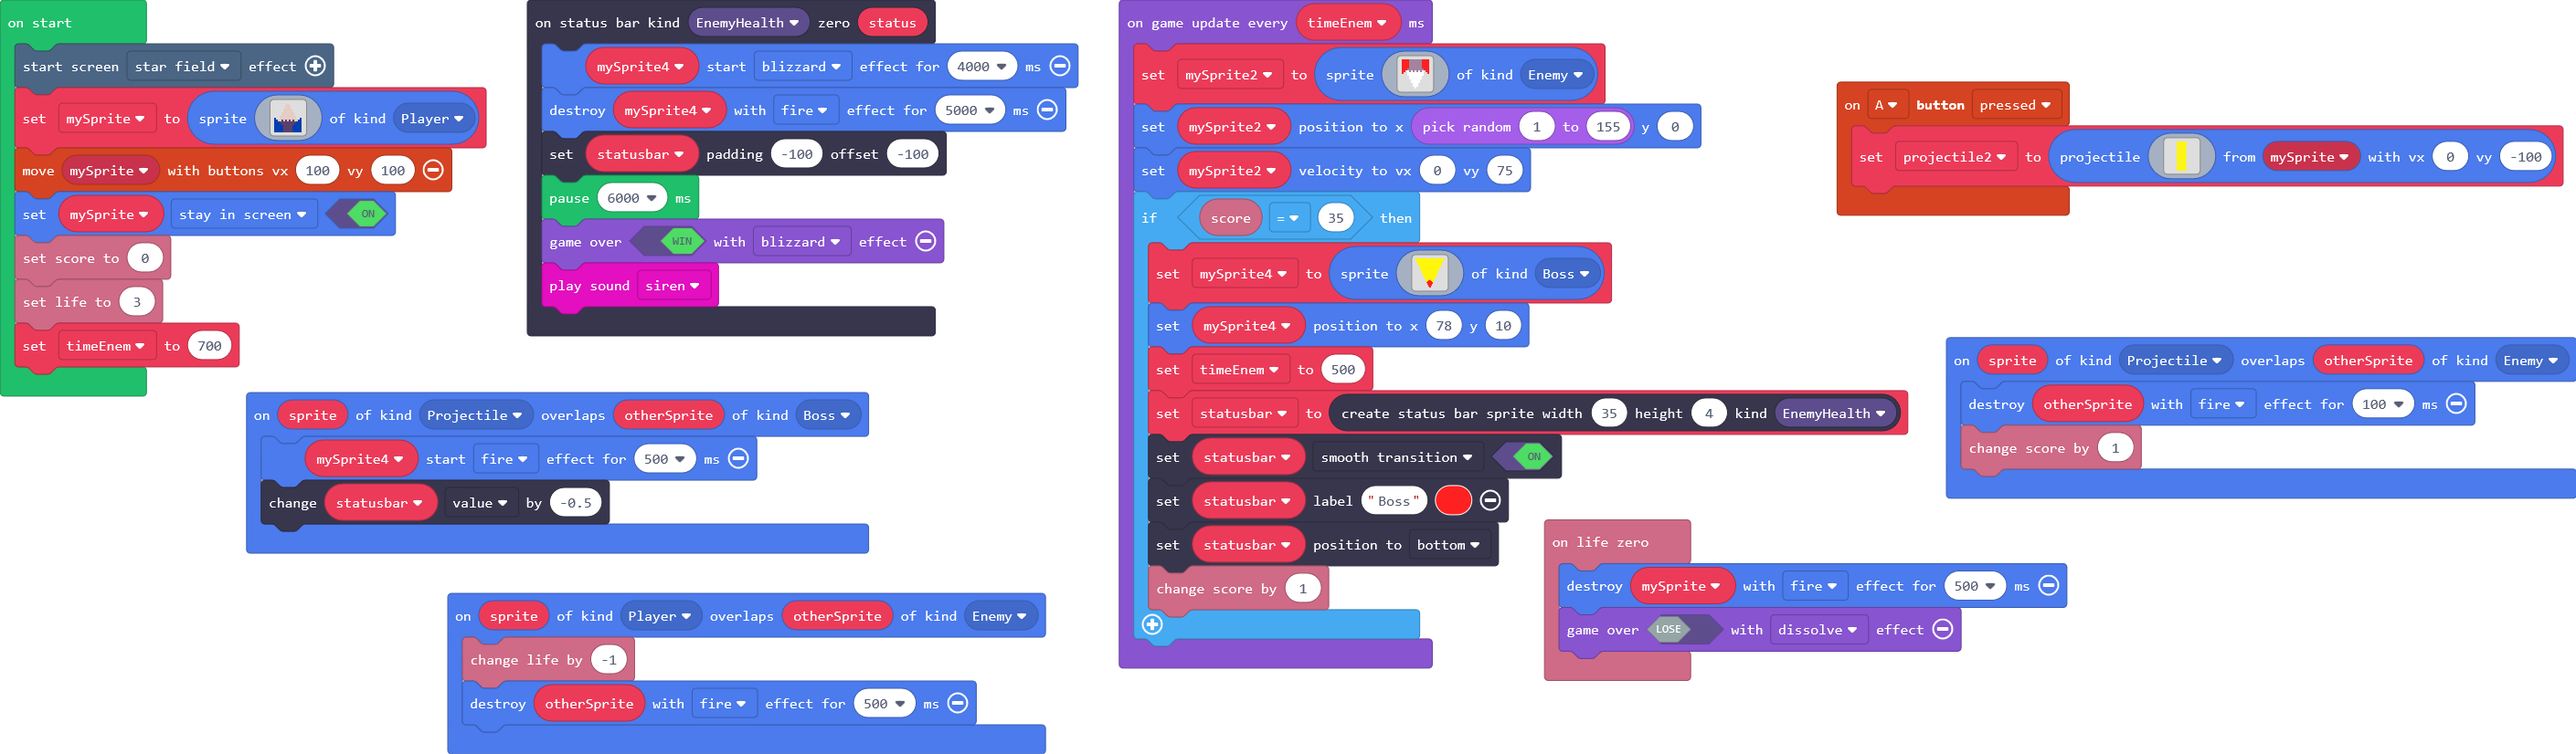
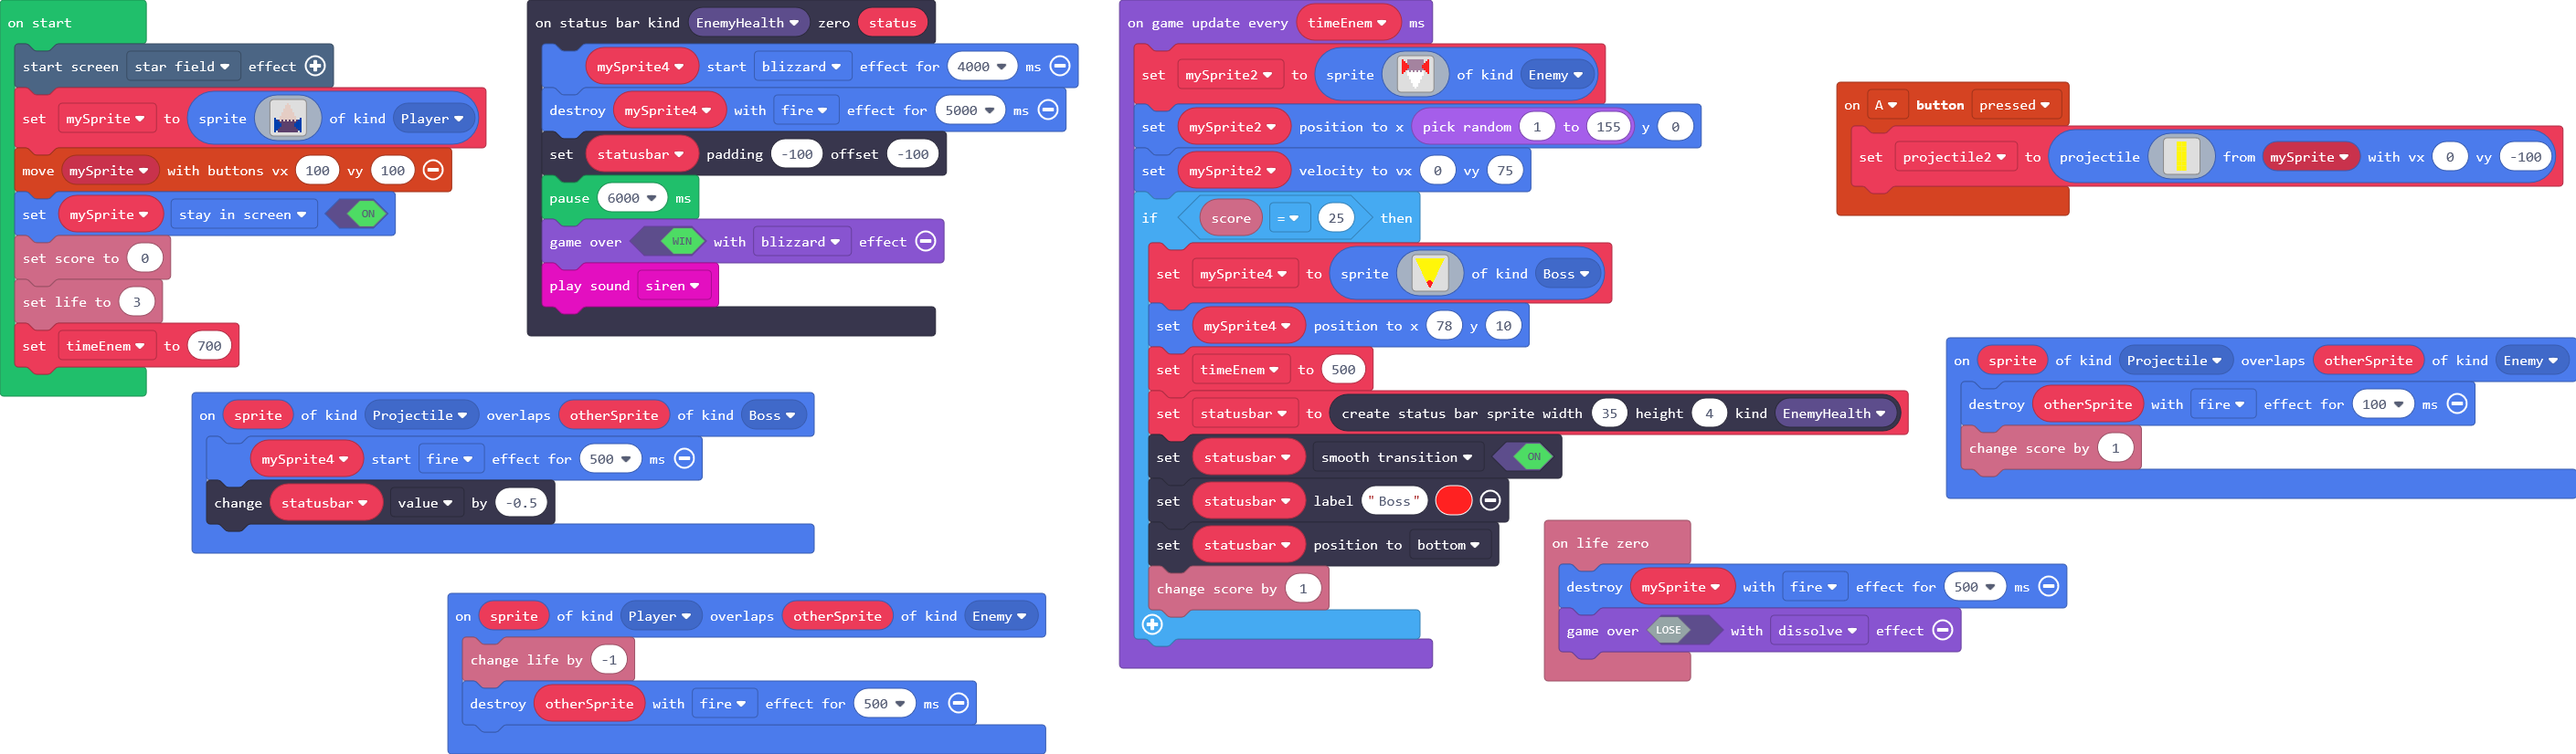
sprites & score

diff --git a/main.ts b/main.ts
@@ -73,13 +73,13 @@ mySprite = sprites.create(img`
 . . . . d d d d d d d . . . . 
 . . . d d d d d d d d d . . . 
 8 . . d d d d d d d d d . . 8 
-8 8 d d c d c d c d c d d 8 8 
+8 8 c d c d c d c d c d c 8 8 
 8 8 8 c c c c c c c c c 8 8 8 
 8 8 8 8 c c c c c c c 8 8 8 8 
-8 8 8 8 8 c c c c c 8 8 8 8 8 
-8 8 8 8 8 c c c c c 8 8 8 8 8 
-8 8 8 8 8 c c c c c 8 8 8 8 8 
-8 8 8 8 8 c c c c c 8 8 8 8 8 
+8 8 8 8 c c c c c c c 8 8 8 8 
+8 8 8 c c c c c c c c c 8 8 8 
+8 8 c c c c c c c c c c c 8 8 
+8 . c c c c c c c c c c c . 8 
 `, SpriteKind.Player)
 controller.moveSprite(mySprite, 100, 100)
 mySprite.setFlag(SpriteFlag.StayInScreen, true)
@@ -88,9 +88,9 @@ info.setLife(3)
 let timeEnem = 700
 game.onUpdateInterval(timeEnem, function () {
     mySprite2 = sprites.create(img`
-2 2 2 2 b b b b b b b 2 2 2 2 
-2 2 2 2 b b b b b b b 2 2 2 2 
-2 2 2 2 b b b b b b b 2 2 2 2 
+2 . . b b b b b b b b b . . 2 
+2 2 . b b b b b b b b b . 2 2 
+2 2 2 b b b b b b b b b 2 2 2 
 2 2 2 2 b b b b b b b 2 2 2 2 
 2 2 2 2 b b b b b b b 2 2 2 2 
 2 2 2 b b b b b b b b b 2 2 2 
@@ -107,7 +107,7 @@ game.onUpdateInterval(timeEnem, function () {
 `, SpriteKind.Enemy)
     mySprite2.setPosition(Math.randomRange(1, 155), 0)
     mySprite2.setVelocity(0, 75)
-    if (info.score() == 35) {
+    if (info.score() == 25) {
         mySprite4 = sprites.create(img`
 5 5 5 5 5 5 5 5 5 5 5 5 5 5 5 5 5 5 5 5 5 5 5 5 5 5 5 5 5 5 5 5 
 5 5 5 5 5 5 5 5 5 5 5 5 5 5 5 5 5 5 5 5 5 5 5 5 5 5 5 5 5 5 5 . 
